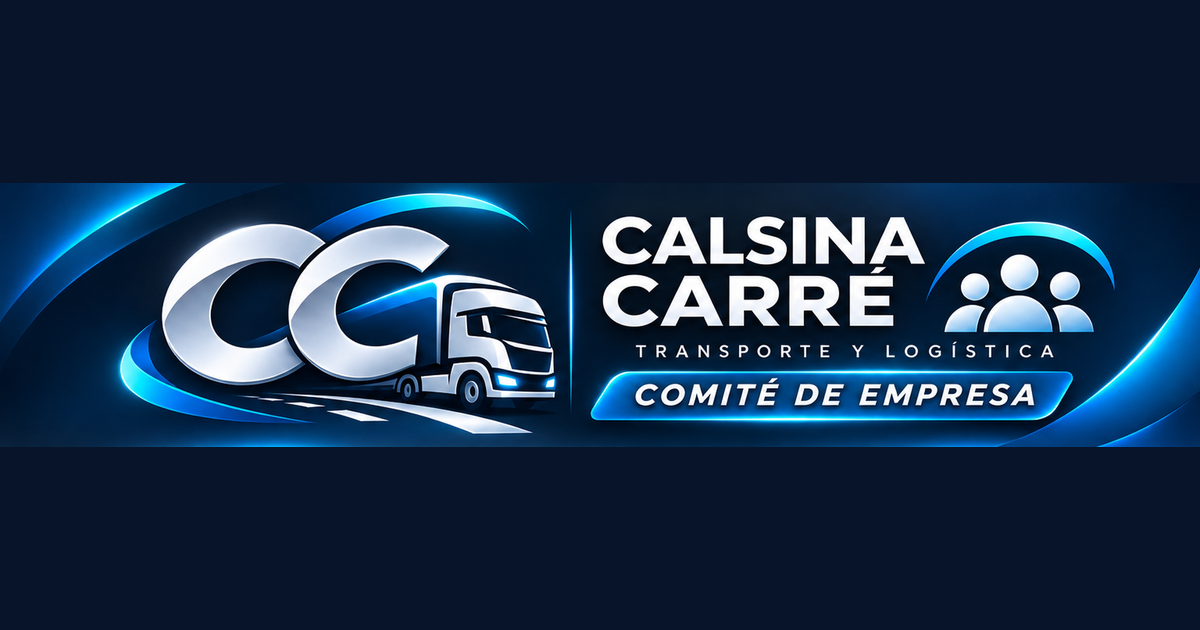
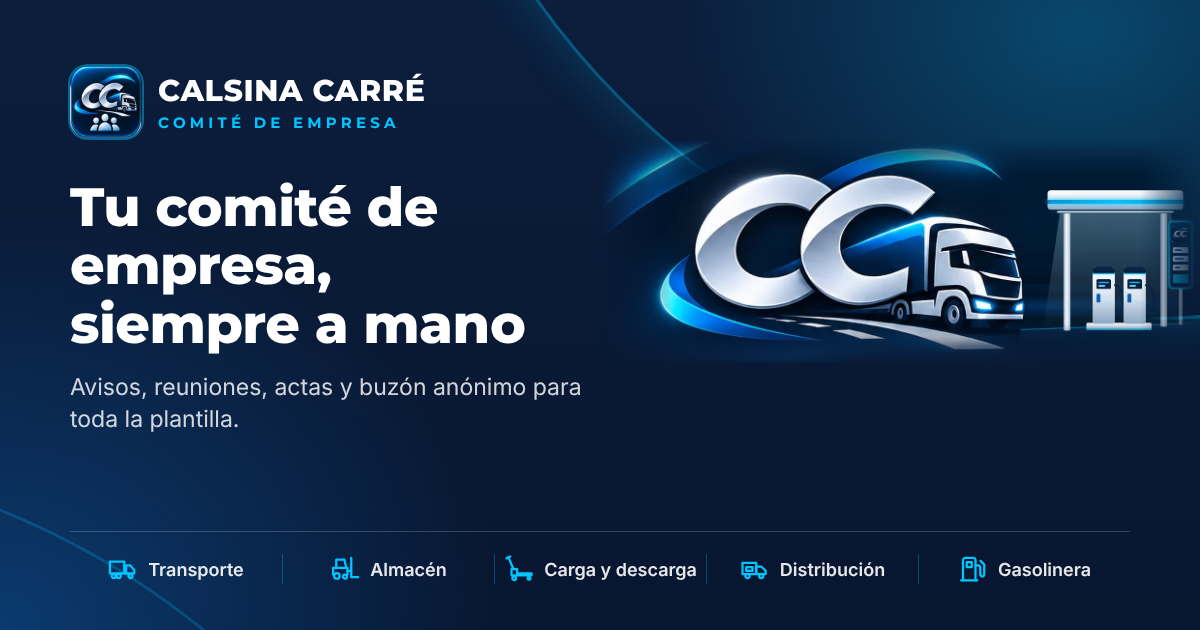
v5: cartel y vista previa al compartir con el estilo nuevo
- Imagen al compartir (img/og.png): titular, logo, camión con la
  gasolinera y los iconos de la empresa. Se genera con
  herramientas/og.html y herramientas/og.cjs.
- Cartel A4: cabecera con el logo y el camión con la gasolinera (sin
  repetir el nombre) y los iconos de la empresa en el pie. Comprobado
  que imprime en una sola hoja.

Claude-Session: https://claude.ai/code/session_011SdsLKzTmFSpwPz2orkjvZ

diff --git a/cartel.html b/cartel.html
@@ -7,7 +7,7 @@
 <meta name="robots" content="noindex">
 <title>Cartel para el tablón · Comité Calsina Carré</title>
 <link rel="icon" href="img/favicon-32.png" sizes="32x32" type="image/png">
-<link rel="stylesheet" href="fuentes.css?v=4">
+<link rel="stylesheet" href="fuentes.css?v=5">
 <style>
   :root { --noche: #0B1E3C; --azul: #0E5FAE; --cian: #00C6FF; --hielo: #E6EEF7; --tinta: #0B1E3C; --suave: #4d5b6c; }
   * { box-sizing: border-box; }
@@ -16,14 +16,23 @@
   .barra button, .barra a { font: inherit; font-weight: 700; border: 0; border-radius: 10px; padding: 11px 18px; cursor: pointer; background: var(--azul); color: #fff; text-decoration: none; }
   .barra a { background: #fff; color: var(--tinta); border: 1px solid #c9d4e2; }
   .hoja { position: relative; width: 210mm; height: 297mm; margin: 0 auto 30px; background: #fff; display: flex; flex-direction: column; align-items: center; text-align: center; overflow: hidden; box-shadow: 0 4px 24px rgba(0,0,0,.12); }
-  .banner { width: 100%; display: block; }
-  h1 { font-family: "Montserrat", Arial, sans-serif; font-weight: 800; font-size: 13mm; line-height: 1.02; margin: 9mm 14mm 3mm; text-transform: uppercase; color: var(--noche); }
+  .cab { position: relative; width: 100%; height: 46mm; flex: none; overflow: hidden; display: flex; align-items: center; padding: 0 12mm; color: #fff; text-align: left;
+    background: radial-gradient(55% 90% at 92% 0%, rgba(0,198,255,.25), transparent 60%), radial-gradient(70% 120% at 0% 100%, rgba(14,95,174,.5), transparent 60%), linear-gradient(180deg, #0B1E3C, #081630); }
+  .cab::before { content: ""; position: absolute; width: 260mm; height: 260mm; right: -120mm; top: -205mm; border-radius: 50%; border: .8mm solid rgba(0,198,255,.35); }
+  .cab-logo { position: relative; z-index: 1; display: flex; align-items: center; gap: 4mm; }
+  .cab-logo img { width: 18mm; height: 18mm; border-radius: 5mm; box-shadow: 0 0 0 .5mm rgba(0,198,255,.45); }
+  .cab-logo b { display: block; font-family: "Montserrat", Arial, sans-serif; font-weight: 800; font-size: 7.4mm; line-height: 1; text-transform: uppercase; }
+  .cab-logo small { display: block; margin-top: 1.6mm; font-family: "Montserrat", Arial, sans-serif; font-weight: 700; font-size: 3.2mm; letter-spacing: .26em; text-transform: uppercase; color: var(--cian); }
+  .cab-arte { position: absolute; right: 0; top: 50%; transform: translateY(-50%); width: 104mm; aspect-ratio: 1240 / 461; background: url(img/hero-arte.webp) center / contain no-repeat;
+    -webkit-mask-image: linear-gradient(90deg, transparent, #000 14%, #000 90%, transparent), linear-gradient(180deg, transparent, #000 14%, #000 84%, transparent); -webkit-mask-composite: source-in;
+    mask-image: linear-gradient(90deg, transparent, #000 14%, #000 90%, transparent), linear-gradient(180deg, transparent, #000 14%, #000 84%, transparent); mask-composite: intersect; }
+  h1 { font-family: "Montserrat", Arial, sans-serif; font-weight: 800; font-size: 11.5mm; line-height: 1.02; margin: 7mm 14mm 2.5mm; text-transform: uppercase; color: var(--noche); }
   h1 span { color: var(--azul); }
-  .sub { font-size: 5.2mm; color: var(--suave); margin: 0 20mm 8mm; line-height: 1.35; }
+  .sub { font-size: 4.8mm; color: var(--suave); margin: 0 20mm 6mm; line-height: 1.35; }
   .centro { display: flex; gap: 10mm; align-items: center; justify-content: center; padding: 0 14mm; }
   .qr { display: flex; flex-direction: column; align-items: center; gap: 3mm; }
   .codigo { position: relative; padding: 5mm; background: #fff; border: 1.6mm solid var(--noche); border-radius: 6mm; box-shadow: 0 0 0 1.4mm var(--cian); }
-  .codigo svg { display: block; width: 66mm; height: 66mm; }
+  .codigo svg { display: block; width: 58mm; height: 58mm; }
   .codigo .logo-qr { position: absolute; left: 50%; top: 50%; width: 17mm; height: 17mm; transform: translate(-50%, -50%); border-radius: 4mm; background: #fff; padding: .8mm; }
   .qr b { font-family: "Montserrat", Arial, sans-serif; font-weight: 800; font-size: 6.5mm; text-transform: uppercase; }
   .qr small { font-size: 3.6mm; color: var(--suave); white-space: nowrap; }
@@ -31,12 +40,16 @@
   .ofrece li { display: flex; gap: 3mm; align-items: flex-start; }
   .ofrece li::before { content: ""; flex: none; width: 4.2mm; height: 4.2mm; margin-top: .6mm; border-radius: 1.2mm; background: linear-gradient(135deg, var(--azul), var(--cian)); }
   .ofrece b { font-family: "Montserrat", Arial, sans-serif; font-weight: 800; font-size: 5mm; display: block; line-height: 1.1; margin-bottom: .6mm; }
-  .pasos { display: grid; grid-template-columns: 1fr 1fr; gap: 6mm; margin: 9mm 14mm 0; text-align: left; width: calc(100% - 28mm); }
+  .pasos { display: grid; grid-template-columns: 1fr 1fr; gap: 6mm; margin: 6mm 14mm 0; text-align: left; width: calc(100% - 28mm); }
   .paso { background: var(--hielo); border-radius: 4mm; padding: 5mm 6mm; }
   .paso h2 { font-family: "Montserrat", Arial, sans-serif; font-weight: 800; font-size: 6mm; margin: 0 0 2mm; text-transform: uppercase; color: var(--azul); }
   .paso ol { margin: 0; padding-left: 5.5mm; font-size: 4.1mm; line-height: 1.45; }
-  .pie { margin-top: auto; width: 100%; background: var(--noche); color: #fff; padding: 6mm 0 7mm; border-top: 2mm solid var(--cian); }
-  .pie p { font-family: "Montserrat", Arial, sans-serif; font-weight: 800; font-size: 6mm; letter-spacing: .06em; text-transform: uppercase; margin: 0; }
+  .pie { margin-top: auto; width: 100%; background: var(--noche); color: #fff; padding: 5mm 0 5mm; border-top: 2mm solid var(--cian); }
+  .pie p { font-family: "Montserrat", Arial, sans-serif; font-weight: 800; font-size: 5mm; letter-spacing: .06em; text-transform: uppercase; margin: 0; }
+  .empresa { list-style: none; margin: 0 14mm 4mm; padding: 0 0 4mm; display: grid; grid-template-columns: repeat(5, 1fr); border-bottom: .3mm solid rgba(255,255,255,.18); }
+  .empresa li { display: flex; flex-direction: column; align-items: center; gap: 1.6mm; font-size: 3.4mm; font-weight: 600; color: rgba(255,255,255,.9); }
+  .empresa li + li { border-left: .3mm solid rgba(0,198,255,.3); }
+  .empresa svg { width: 8mm; height: 8mm; color: var(--cian); }
   @media print {
     body { background: #fff; }
     .barra { display: none; }
@@ -53,7 +66,10 @@
   <a href="admin.html#cartel">Volver al panel</a>
 </div>
 <div class="hoja">
-  <img class="banner" src="img/cabecera-1600.webp" alt="Calsina Carré · Comité de empresa">
+  <div class="cab">
+    <div class="cab-logo"><img src="img/icon-192.png" alt=""><div><b>Calsina Carré</b><small>Comité de empresa</small></div></div>
+    <div class="cab-arte" role="img" aria-label="Camión y gasolinera de Calsina Carré"></div>
+  </div>
   <h1>Toda la información <span>del comité</span> en tu móvil</h1>
   <p class="sub">Escanea el código con la cámara del móvil e instala la app. Es gratis, no tienes que registrarte y no pedimos ningún dato.</p>
   <div class="centro">
@@ -70,9 +86,12 @@
     <div class="paso"><h2>Android</h2><ol><li>Escanea el código y abre el enlace en Chrome.</li><li>Pulsa <b>Instalar</b> (o menú ⋮ → <b>Instalar aplicación</b>).</li><li>Ábrela desde el icono, como cualquier app.</li></ol></div>
     <div class="paso"><h2>iPhone</h2><ol><li>Escanea el código y abre el enlace en Safari.</li><li>Pulsa <b>Compartir</b> → <b>Añadir a pantalla de inicio</b>.</li><li>Ábrela desde el icono, como cualquier app.</li></ol></div>
   </div>
-  <div class="pie"><p>Comité de empresa · Para toda la plantilla</p></div>
+  <div class="pie">
+    <ul class="empresa"><li><svg viewBox="0 0 24 24" fill="none" stroke="currentColor" stroke-width="1.8" stroke-linecap="round" stroke-linejoin="round" aria-hidden="true"><path d="M1.5 6H13v9.5H1.5z"/><path d="M14.5 9h3.1l3.4 3.8v2.7h-6.5z"/><path d="M13 15.5h1.5"/><circle cx="4.6" cy="17.6" r="1.6"/><circle cx="8.6" cy="17.6" r="1.6"/><circle cx="18" cy="17.6" r="1.6"/></svg>Transporte</li><li><svg viewBox="0 0 24 24" fill="none" stroke="currentColor" stroke-width="1.8" stroke-linecap="round" stroke-linejoin="round" aria-hidden="true"><path d="M2.5 16.5V11h11.5v5.5"/><path d="M5 11V4.5h6.5L13 11"/><path d="M17 3v15.5h5.5"/><path d="M14 13.5h3"/><circle cx="5.5" cy="17.5" r="2.2"/><circle cx="12" cy="18" r="1.6"/></svg>Almacén</li><li><svg viewBox="0 0 24 24" fill="none" stroke="currentColor" stroke-width="1.8" stroke-linecap="round" stroke-linejoin="round" aria-hidden="true"><path d="M3.5 2.5 7.5 12"/><path d="M2 3.5 5 2"/><path d="M6 12h4.5v5H6z"/><path d="M10.5 15.5h11.5v1.5H10.5z"/><circle cx="8.2" cy="19.3" r="1.5"/><circle cx="20" cy="19.3" r="1.1"/></svg>Carga y descarga</li><li><svg viewBox="0 0 24 24" fill="none" stroke="currentColor" stroke-width="1.8" stroke-linecap="round" stroke-linejoin="round" aria-hidden="true"><path d="M2 7h11v9H2z"/><path d="M13 10h4l3.5 3.5V16H13z"/><path d="M5 10.5h5v3H5z"/><circle cx="6" cy="17.6" r="1.7"/><circle cx="17" cy="17.6" r="1.7"/></svg>Distribución</li><li><svg viewBox="0 0 24 24" fill="none" stroke="currentColor" stroke-width="1.8" stroke-linecap="round" stroke-linejoin="round" aria-hidden="true"><path d="M4 21V5a2 2 0 0 1 2-2h6a2 2 0 0 1 2 2v16"/><path d="M2.5 21h13"/><path d="M7 6.5h4v4H7z"/><path d="M14 9h2a1.8 1.8 0 0 1 1.8 1.8v5.4a1.6 1.6 0 0 0 3.2 0V8.5L18 5.5"/></svg>Gasolinera</li></ul>
+    <p>Comité de empresa · Para toda la plantilla</p>
+  </div>
 </div>
 <script src="lib/qr.js"></script>
-<script src="cartel.js?v=4"></script>
+<script src="cartel.js?v=5"></script>
 </body>
 </html>

diff --git a/herramientas/og.html b/herramientas/og.html
@@ -1,0 +1,33 @@
+<!doctype html>
+<!-- Imagen para compartir (img/og.png, 1200x630). Se hace con Playwright: ver herramientas/LEEME-og.txt -->
+<html lang="es"><head><meta charset="utf-8"><link rel="stylesheet" href="../fuentes.css">
+<style>
+*{box-sizing:border-box;margin:0}
+body{width:1200px;height:630px;overflow:hidden;font-family:Inter,sans-serif;color:#fff;
+ background:radial-gradient(55% 80% at 90% 5%,rgba(0,198,255,.25),transparent 60%),radial-gradient(70% 110% at 0% 100%,rgba(14,95,174,.5),transparent 60%),linear-gradient(180deg,#0B1E3C,#081630);position:relative}
+.arco{position:absolute;border-radius:50%;border:3px solid rgba(0,198,255,.35)}
+.a1{width:1500px;height:1500px;right:-700px;top:-1180px;box-shadow:0 0 50px rgba(0,198,255,.2)}
+.a2{width:1600px;height:1600px;left:-1100px;bottom:-1420px;border-color:rgba(0,198,255,.22)}
+.txt{position:absolute;left:70px;top:66px;width:520px}
+.logo{display:flex;align-items:center;gap:16px}
+.logo img{width:72px;height:72px;border-radius:18px;box-shadow:0 0 0 2px rgba(0,198,255,.45)}
+.logo b{display:block;font:800 30px Montserrat;text-transform:uppercase;letter-spacing:.02em}
+.logo small{display:block;font:700 15px Montserrat;letter-spacing:.28em;text-transform:uppercase;color:#00C6FF;margin-top:4px}
+h1{font:800 54px/1.08 Montserrat;margin-top:40px;letter-spacing:-.01em}
+p{font-size:23px;color:rgba(255,255,255,.82);margin-top:18px;line-height:1.4}
+.arte{position:absolute;right:0;top:140px;width:600px;aspect-ratio:1240/461;background:url(../img/hero-arte.webp) center/contain no-repeat;
+ -webkit-mask-image:linear-gradient(90deg,transparent,#000 12%,#000 90%,transparent),linear-gradient(180deg,transparent,#000 16%,#000 82%,transparent);-webkit-mask-composite:source-in}
+ul{position:absolute;left:70px;right:70px;bottom:46px;list-style:none;padding:22px 0 0;display:grid;grid-template-columns:repeat(5,1fr);border-top:1px solid rgba(255,255,255,.18)}
+li{display:flex;align-items:center;justify-content:center;gap:10px;font:600 18px Inter;color:rgba(255,255,255,.9);white-space:nowrap}
+li+li{border-left:1px solid rgba(0,198,255,.3)}
+li svg{width:30px;height:30px;flex:none;color:#00C6FF}
+</style></head><body>
+<div class="arco a1"></div><div class="arco a2"></div>
+<div class="txt">
+  <div class="logo"><img src="../img/icon-192.png" alt=""><div><b>Calsina Carré</b><small>Comité de empresa</small></div></div>
+  <h1>Tu comité de empresa,<br>siempre a mano</h1>
+  <p>Avisos, reuniones, actas y buzón anónimo para toda la plantilla.</p>
+</div>
+<div class="arte"></div>
+<ul><li><svg viewBox="0 0 24 24" fill="none" stroke="currentColor" stroke-width="1.8" stroke-linecap="round" stroke-linejoin="round"><path d="M1.5 6H13v9.5H1.5z"/><path d="M14.5 9h3.1l3.4 3.8v2.7h-6.5z"/><path d="M13 15.5h1.5"/><circle cx="4.6" cy="17.6" r="1.6"/><circle cx="8.6" cy="17.6" r="1.6"/><circle cx="18" cy="17.6" r="1.6"/></svg>Transporte</li><li><svg viewBox="0 0 24 24" fill="none" stroke="currentColor" stroke-width="1.8" stroke-linecap="round" stroke-linejoin="round"><path d="M2.5 16.5V11h11.5v5.5"/><path d="M5 11V4.5h6.5L13 11"/><path d="M17 3v15.5h5.5"/><path d="M14 13.5h3"/><circle cx="5.5" cy="17.5" r="2.2"/><circle cx="12" cy="18" r="1.6"/></svg>Almacén</li><li><svg viewBox="0 0 24 24" fill="none" stroke="currentColor" stroke-width="1.8" stroke-linecap="round" stroke-linejoin="round"><path d="M3.5 2.5 7.5 12"/><path d="M2 3.5 5 2"/><path d="M6 12h4.5v5H6z"/><path d="M10.5 15.5h11.5v1.5H10.5z"/><circle cx="8.2" cy="19.3" r="1.5"/><circle cx="20" cy="19.3" r="1.1"/></svg>Carga y descarga</li><li><svg viewBox="0 0 24 24" fill="none" stroke="currentColor" stroke-width="1.8" stroke-linecap="round" stroke-linejoin="round"><path d="M2 7h11v9H2z"/><path d="M13 10h4l3.5 3.5V16H13z"/><path d="M5 10.5h5v3H5z"/><circle cx="6" cy="17.6" r="1.7"/><circle cx="17" cy="17.6" r="1.7"/></svg>Distribución</li><li><svg viewBox="0 0 24 24" fill="none" stroke="currentColor" stroke-width="1.8" stroke-linecap="round" stroke-linejoin="round"><path d="M4 21V5a2 2 0 0 1 2-2h6a2 2 0 0 1 2 2v16"/><path d="M2.5 21h13"/><path d="M7 6.5h4v4H7z"/><path d="M14 9h2a1.8 1.8 0 0 1 1.8 1.8v5.4a1.6 1.6 0 0 0 3.2 0V8.5L18 5.5"/></svg>Gasolinera</li></ul>
+</body></html>

diff --git a/admin.html b/admin.html
@@ -11,9 +11,9 @@
 <link rel="icon" href="img/favicon-32.png" sizes="32x32" type="image/png">
 <link rel="icon" href="img/favicon-64.png" sizes="64x64" type="image/png">
 <link rel="apple-touch-icon" href="img/apple-touch-icon.png">
-<link rel="stylesheet" href="fuentes.css?v=4">
-<link rel="stylesheet" href="styles.css?v=4">
-<link rel="stylesheet" href="admin.css?v=4">
+<link rel="stylesheet" href="fuentes.css?v=5">
+<link rel="stylesheet" href="styles.css?v=5">
+<link rel="stylesheet" href="admin.css?v=5">
 </head>
 <body class="panel">
 <header class="cabecera cab-panel">
@@ -126,8 +126,8 @@
 </section>
 
 <script src="lib/supabase.js"></script>
-<script src="comun.js?v=4"></script>
-<script src="render.js?v=4"></script>
-<script src="admin.js?v=4"></script>
+<script src="comun.js?v=5"></script>
+<script src="render.js?v=5"></script>
+<script src="admin.js?v=5"></script>
 </body>
 </html>

diff --git a/index.html b/index.html
@@ -17,8 +17,8 @@
 <meta property="og:description" content="Actualidad, avisos, reuniones, actas y buzón para la plantilla.">
 <meta property="og:image" content="https://mariancracana77-ssccoo.github.io/Comite-calsina-carre/img/og.png">
 <meta property="og:type" content="website">
-<link rel="stylesheet" href="fuentes.css?v=4">
-<link rel="stylesheet" href="styles.css?v=4">
+<link rel="stylesheet" href="fuentes.css?v=5">
+<link rel="stylesheet" href="styles.css?v=5">
 </head>
 <body>
 <a class="saltar" href="#contenido">Ir al contenido</a>
@@ -293,8 +293,8 @@
 </footer>
 
 <script src="lib/supabase.js"></script>
-<script src="comun.js?v=4"></script>
-<script src="render.js?v=4"></script>
-<script src="app.js?v=4"></script>
+<script src="comun.js?v=5"></script>
+<script src="render.js?v=5"></script>
+<script src="app.js?v=5"></script>
 </body>
 </html>

diff --git a/comun.js b/comun.js
@@ -6,7 +6,7 @@
 window.SUPABASE_URL = "https://ytxpubqyhnohhugpukdm.supabase.co";
 window.SUPABASE_KEY = "sb_publishable_tmkeed90aj4Fv00UoTTy7Q_qBPUAaCj";
 window.sb = supabase.createClient(window.SUPABASE_URL, window.SUPABASE_KEY);
-window.VERSION_WEB = "4"; // cambiar junto con ?v= en los HTML y VERSION en sw.js
+window.VERSION_WEB = "5"; // cambiar junto con ?v= en los HTML y VERSION en sw.js
 window.WEB_URL = "https://mariancracana77-ssccoo.github.io/Comite-calsina-carre/";
 
 // ---- Utilidades ----

diff --git a/guia.html b/guia.html
@@ -8,8 +8,8 @@
 <title>Guía del panel · Comité Calsina Carré</title>
 <meta name="theme-color" content="#0B1E3C">
 <link rel="icon" href="img/favicon-32.png" sizes="32x32" type="image/png">
-<link rel="stylesheet" href="fuentes.css?v=4">
-<link rel="stylesheet" href="styles.css?v=4">
+<link rel="stylesheet" href="fuentes.css?v=5">
+<link rel="stylesheet" href="styles.css?v=5">
 <style>
   body { padding-bottom: 40px; }
   .guia { max-width: 820px; margin: 0 auto; padding: 8px 16px 40px; }

diff --git a/sw.js b/sw.js
@@ -1,6 +1,6 @@
 // Permite instalar la web como app y abrirla sin conexión.
 // Cambiar VERSION junto con ?v= en los HTML y VERSION_WEB en comun.js.
-const VERSION = "4";
+const VERSION = "5";
 const CACHE = "comite-v" + VERSION;
 const ARCHIVOS = [
   "./", "index.html", "admin.html", "guia.html",

diff --git a/CLAUDE.md b/CLAUDE.md
@@ -9,7 +9,7 @@ La gestiona desde el panel el padre de Lorena (usuario GitHub `mariancracana77-S
 
 - Web: https://mariancracana77-ssccoo.github.io/Comite-calsina-carre/ (GitHub Pages desde `main`, raíz)
 - Panel: `admin.html` (email + contraseña de Supabase)
-- Versión actual: **4**
+- Versión actual: **5**
 
 ## Reglas (las mismas que en CCOO)
 - No publicar en `main` sin que Lorena lo confirme. Trabajar en la rama indicada.
@@ -21,7 +21,7 @@ La gestiona desde el panel el padre de Lorena (usuario GitHub `mariancracana77-S
 - Móvil (320–412 px) y PC, letra muy grande y modo oscuro deben seguir funcionando.
 
 ## Marca
-Kit visual HD del comité (CC metálico + camión + personas). Paleta: `#0B1E3C` azul noche, `#0E5FAE` azul, `#00C6FF` cian, `#E6EEF7` hielo, blanco. Letras: Montserrat (títulos) e Inter (texto), alojadas en `fuentes/` (`fuentes.css`). Imágenes en `img/`: `icon-192/512.png` (esquinas transparentes), `icon-maskable-512.png` y `apple-touch-icon.png` (a sangre), `favicon-32/64.png` (solo el CC), `hero-arte.webp` (CC + camión + la gasolinera de la empresa, a la derecha del bloque azul de la portada; la gasolinera la pidió el padre porque la empresa tiene gasolinera propia: dibujo en `herramientas/gasolinera.svg`, añadido a la derecha del recorte del kit alargando su fondo), `cabecera-900/1600.webp` (banner del cartel), `og.png`.
+Kit visual HD del comité (CC metálico + camión + personas). Paleta: `#0B1E3C` azul noche, `#0E5FAE` azul, `#00C6FF` cian, `#E6EEF7` hielo, blanco. Letras: Montserrat (títulos) e Inter (texto), alojadas en `fuentes/` (`fuentes.css`). Imágenes en `img/`: `icon-192/512.png` (esquinas transparentes), `icon-maskable-512.png` y `apple-touch-icon.png` (a sangre), `favicon-32/64.png` (solo el CC), `hero-arte.webp` (CC + camión + la gasolinera de la empresa, a la derecha del bloque azul de la portada; la gasolinera la pidió el padre porque la empresa tiene gasolinera propia: dibujo en `herramientas/gasolinera.svg`, añadido a la derecha del recorte del kit alargando su fondo), `cabecera-900/1600.webp` (ya no se usan en la web), `og.png` (vista previa al compartir: se hace con `herramientas/og.html` + `herramientas/og.cjs`). El cartel (`cartel.html`) lleva cabecera con el logo y `hero-arte.webp`, y los iconos de la empresa en el pie; debe caber en un A4.
 
 ## Lo que tiene la empresa (portada)
 Lo pidió el padre: camión/transporte, toro = carretilla elevadora/almacén, transpaleta/carga y descarga, «distribuidor» = de momento camión de reparto/distribución, surtidor/gasolinera. Iconos SVG `camion`, `toro`, `transpaleta`, `reparto`, `surtidor` en `comun.js`. Van como una fila fina de 5 iconos con su nombre (`ul.hero-empresa`) dentro del bloque azul de la portada, bajo los botones. No cargar la imagen de arriba con más dibujos (le parecía feo) ni ponerlo como franja aparte bajo los accesos (quedaba feo: dos filas de iconos seguidas).

diff --git a/README.md b/README.md
@@ -63,6 +63,7 @@ Abre la web y el panel con datos de prueba (sin tocar la base de datos real) en 
 
 ## Versiones
 
+- **v5**: cartel A4 con QR y la imagen al compartir por WhatsApp con el estilo nuevo (camión, gasolinera e iconos de la empresa).
 - **v4**: gasolinera de la empresa junto al camión en la portada; fila de iconos con lo que tiene la empresa (transporte, almacén, carga y descarga, distribución, gasolinera) en el bloque azul; pie de página completo (logo, enlaces y aviso legal) y cabecera azul con icono en cada apartado; en PC, el calendario con las próximas reuniones al lado.
 - **v3**: portada nueva más profesional (bloque azul con la marca, accesos rápidos, columna con lo urgente y la próxima reunión); «Accesos» del panel pasa a «Ajustes»; el nombre ya no se repite en la ventana de la app.
 - **v2**: avisos al móvil (notificaciones), visitas y estadísticas en el panel, guía del panel.
